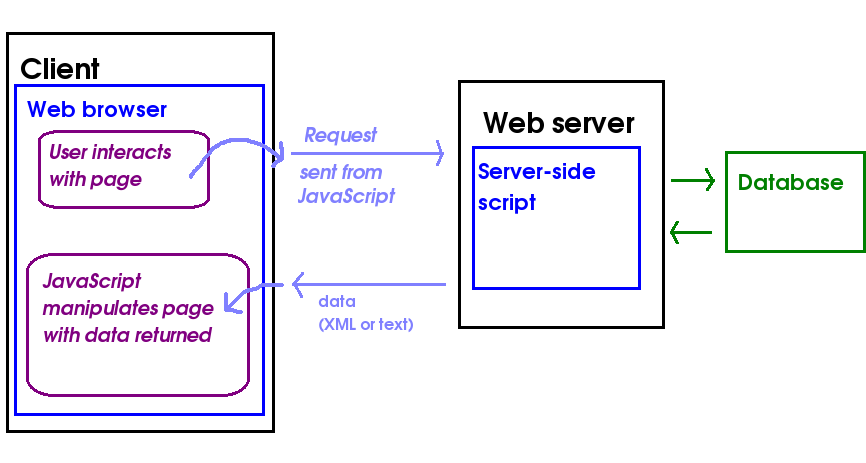
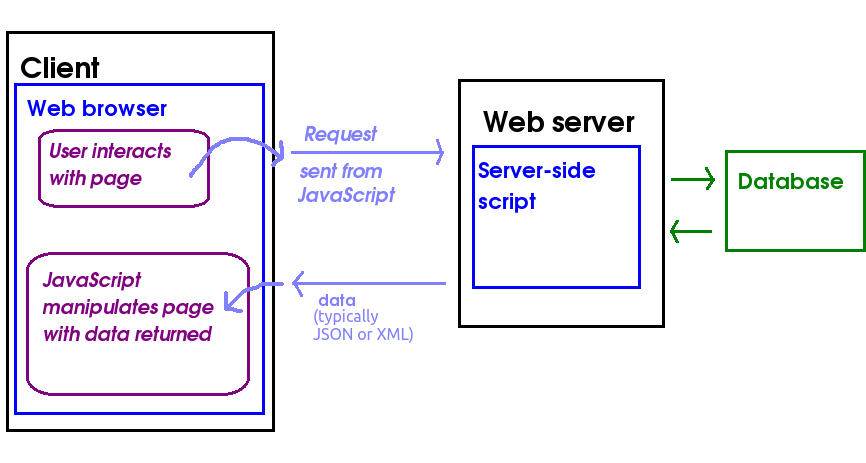
COM518: add preview of topic 5 notes

diff --git a/COM518/topic5.html b/COM518/topic5.html
@@ -1,0 +1,311 @@
+<!DOCTYPE html>
+
+<html xmlns="http://www.w3.org/1999/xhtml">
+<head>
+<title>Topic 5: Introduction to AJAX</title>
+<link rel='stylesheet' type='text/css' href='../css/dfti0910.css' />
+</head>
+<body>
+<div class="titlebox"><h1>Topic 5: Introduction to AJAX</h1></div>
+<p>Today we will cover the following topics:</p>
+<ul>
+<li>AJAX</li>
+<li>Introduction to Promises and async/await</li>
+<li>Using JSON in AJAX applications</li>
+</ul>
+<h2>Introduction to AJAX</h2>
+
+<p><img src="../images/ajax2.png" alt="AJAX applications"/></p>
+<p><em>AJAX</em> (<em>A</em>synchronous <em>J</em>avaScript <em>A</em>nd <em>X</em>ML) is an approach to developing highly interactive web applications in which the front-end (JavaScript running client-side in the browser) communicates with a web server <strong>in the background, without the page being reloaded.</strong> So, with AJAX we can create interactive, instant searches (such as that seen on Google) for example. Your client-side JavaScript code sends a request, and the server sends data back, typically in a pure-data format such as XML or JSON (even though AJAX stands for Asynchronous JavaScript and <em>XML</em>, JSON can also be used). The JSON or XML is then <em>parsed</em> (interpreted) by a second client-side JavaScript function, and the page dynamically updated with the new data.</p>
+<p>For example, we could have an AJAX application to search for all products of a given type (e.g cornflakes). Our client-side, front-end JavaScript could send a product type, such as "Cornflakes", to a Node server, and the Node server could send back JSON containing all the cornflakes manufactured by different manufacturers. Then, a second JavaScript function (the AJAX <em>callback</em>), could receive the JSON from the server, parse (interpret it) and update the HTML front-end with the data provided in the JSON (all brands of cornflakes available).</p>
+<p>
+How might a user interact with an AJAX application? They might enter a search term in a form and click Go, and then the search results would be sent back from the server as JSON in the background, and <em>one small part of the page only</em> (as opposed to the entire page) updated with the search results. 
+Furthermore,as  requests to the server are sent, and responses received, <em>in the background</em>.  so the user can <em>continue to interact with the page</em> while waiting for the response to come back.</p>
+
+<p>
+AJAX is not an actual language, but a combination of technologies used to produce the effect above. An AJAX application typically consists of three components:
+<ul>
+<li>
+the client side application, usually JavaScript running in the browser which sends HTTP requests to a server and processes the response;</li>
+<li>
+a web server which receives the HTTP request sent from the JavaScript, above, and delivers the response;</li>
+<li>
+the data sent back from the server to the client, which is typically in a data description format such as JSON or XML.
+</li>
+</ul>
+</p>
+
+<h3 id='cors'>The same-origin policy</h3>
+
+<p>AJAX applications are normally subject to the <em>same-origin policy</em>. This means that the back-end (the server-side script that the JavaScript talks to) must be delivered from the same exact domain as the front-end. The reason for this is security: the ability for an AJAX front end to talk to a third-party server opens up the possibility of cross-site scripting.  According to the W3C on their <a href='http://www.w3.org/Security/wiki/Same_Origin_Policy'>
+same origin policy document</a>, with the same-origin policy "the overarching intent is to let users visit untrusted web sites without those web sites interfering with the user's session with honest web sites" - in other words, it prevents the possibility of a third-party AJAX-based site using AJAX to communicate with a legitimate site which the user might be currently
+logged on to, which could lead to stealing of session-specific information.</p>
+<p>
+The domain must be exact; subdomains of a top-level domain are treated as different.  For example <em>booking.solentholidays.com</em> and
+<em>hotels.solentholidays.com</em> are treated as different. This is because several users with different subdomains might be sharing the same top-level domain of a hosting company, e.g.  <em>fredsmith.solenthosting.com</em> and <em>timjones.solenthosting.com</em>.</p>
+
+<h3>Circumventing the same-origin policy with CORS</h3>
+<p>There is, however, a way in which server-side developers can circumvent the same origin policy in certain cases. This is done by explicitly allowing, on the server side, certain AJAX clients to connect.  A common case is where one person owns two domains, and would like the two domains to communicate with each other over AJAX. For example, Solent Holidays might have two domains, <em>hotels.solentholidays.com</em> and <em>booking.solentholidays.com</em> - and wishes to be able to send users' booking details from <em>booking.solentholidays.com</em> to a hotels web service on <em>hotels.solentholidays.com</em>. To do this, they would have to add code to the server-side scripts on <em>hotels.solentholidays.com</em> to <em>allow booking.solentholidays.com to connect</em>.
+</p>
+
+<p>This is done by using the technique of <em>Cross-Origin Resource Sharing (CORS)</em>.  An <em>Access-Control-Allow-Origin</em> headere is added to the HTTP response from the server the <em>header()</em> function, e.g. an HTTP response
+might contain the header:
+<pre>Access-Control-Allow-Origin: booking.solentholidays.com</pre>
+which would allow the client at <em>booking.solentholidays.com</em> to connect
+to the script.
+</p>
+<p>To add a CORS header to a Node/Express server, it's easy if you install the <code>cors</code> package:
+<pre>npm install cors</pre>
+You just use:
+<pre>const cors = require('cors');
+app.use(cors());</pre>
+</p>
+
+<h2>New style AJAX requests with the fetch API</h2>
+<p>The easiest way to communicate with a server using AJAX is the
+<em>fetch API</em>. Here is an example of the use of the fetch API. Note
+that <strong>even though the server would normally send back a data format such as JSON or XML, in this example the server is simply sending back plain text, for simplicity</strong>.
+<pre>
+function ajaxSearch(productType) {
+    fetch(`https://server/api/product/${productType}`)
+        .then(response =&gt; response.text())
+        .then(text =&gt; {
+            document.getElementById('results').innerHTML = text;
+        });
+}
+
+// Make the AJAX run when we click a button
+document.getElementById('ajaxButton').addEventListener('click', ()=&gt; {
+    // Read the product type from a text field
+    const product = document.getElementById('productType').value;
+    ajaxSearch(product);
+});
+</pre>
+How is this working?
+<ul>
+<li>We fetch a response from the given URL. Here we are contacting a 
+server-side script which searches for all products of a given type.</li>
+<li><em>then</em>, when we get the response, we obtain the text from it.</li>
+<li><em>then</em>, when we have the raw text of the response, we run an 
+arrow function to place the results inside a &lt;div&gt;. This arrow
+function is passed the raw text of the response as a parameter.</li> 
+</ul>
+<h3>Promises</h3>
+<p>We'll now look in a bit more detail at what is going on with our fetch API
+request, and in particular look at the concept of a <em>promise</em>. The
+<code>fetch</code> call, above, returns a <em>Promise</em> object.
+A promise is an object which "promises" to do a particular (typically)
+asynchronous, background task which will complete at some point in the future,
+such as an AJAX request. The <code>fetch()</code> function will return 
+immediately, but will not do the AJAX request immediately. Instead, it returns
+a <em>promise object</em> which will, at some point in the future, be either
+<em>fulfilled</em> or <em>rejected</em>. These outcomes are as follows;
+    <ul>
+    <li>A promise is <em>fulfilled</em> or <em>resolved</em> as soon as the 
+    background task completes successfully, for example when a response is
+    received from an AJAX call;</li>
+    <li>or it is <em>rejected</em> if it fails with an error, for example
+    there is a network timeout on an AJAX call.</li>
+    </ul>
+We handle each of those two outcomes using the <code>then()</code> and
+<code>catch()</code> functions. The function supplied as an argument to
+<code>then</code> (the <strong>resolve</strong> function)
+will run <strong>as soon as the promise is fulfilled</strong>
+while the function supplied as an argument to <code>catch</code> will run 
+<strong>as soon as the promise is rejected</strong>.
+</p>
+<p>
+So, promises allow you to write code with intuitive, clean syntax in
+this form:
+<pre>promise.then(resolveFunction).catch(rejectFunction);</pre>
+where "promise" is the promise object, and <code>resolveFunction</code> and
+<code>rejectFunction</code> are the functions which run on fulfilment and
+rejection, respectively.</p>
+<p>Note that this topic does not include how to write your own promises from
+scratch, only how to use promises returned from APIs written by others, for
+example the fetch API. You can read about how to create your own promises in
+the <a href='../wad/promises.html'>third-year notes on promises</a>.</p> 
+<h4>Relating promises to the fetch API</h4>
+<p>So, returning to our fetch API example, what is happening with this code in
+terms of promises? (Note, I have now added a <code>catch()</code>).
+<pre>
+fetch(`https://server/api/product/${productType}`)
+    .then(response =&gt; response.text())
+    .then(text =&gt; {
+        document.getElementById('results').innerHTML = text;
+    })
+    .catch(e =&gt; { alert(`An error occurred: ${e}`); } );
+</pre>
+<ul>
+<li>We make our <code>fetch()</code> request. This returns a promise, which
+will resolve when we get a response back from the server.</li>
+<li>We supply the arrow function <code>response =&gt; response.text()</code>
+as the resolve function. This takes the response and obtains text from it.
+Note that this is shorthand for:
+<code>.then(response =&gt; { return response.text(); } );</code>
+in other words, if an arrow function only returns a value and does not do
+anything else, we can omit the curly brackets and the <code>return</code>.
+</li>
+<li>Note that <code>response.text()</code> does not return the text directly. Perhaps surprisingly, <code>response.text()</code> <strong>itself returns a promise</strong>, which will fulfil as soon as text is obtained from the response so we need <strong>yet another then()</strong> with a <strong>second resolve function</strong> passed as an argument, i.e:
+<pre>
+.then(text =&gt; {
+    document.getElementById('results').innerHTML = text;
+});
+</pre>
+This second resolve function gets passed the text as a parameter, and
+simply places this text inside a &lt;div&gt;.</li>
+<li>Finally, any errors that might occur during the whole process are handled
+with the <code>catch()</code>.</li>
+</ul>
+<h3>async/await</h3>
+<p>ECMAScript 8 (aka ECMAScript 2017) introduces <em>async/await</em>.
+This allows you to write promise-based,
+asynchronous code in a sequential manner. Here is how we would rewrite our
+<em>fetch</em> API code using async/await:
+<pre>
+<em>async</em> function ajaxSearch(productType) {
+    const response = <em>await</em> fetch(`https://server/api/product/${productType}`);
+    const text = <em>await</em> response.text();
+    document.getElementById('results').innerHTML = text;
+}
+
+// Make the AJAX run when we click a button
+document.getElementById('ajaxButton').addEventListener('click', ()=&gt; {
+    // Read the product type from a text field
+    const product = document.getElementById('productType').value;
+    ajaxSearch(product);
+});
+</pre>
+Note how we're doing a whole AJAX / JSON parsing procedure using sequential
+code, even though AJAX is an asynchronous process. The key things are:
+    <ul>
+    <li>The function <em>ajaxSearch()</em> is declared as <em>async</em>, 
+    which makes it a special kind of function (an <em>AsyncFunction</em>)
+    allowing us to do async/await;</li>
+    <li><em>fetch()</em> (which if you remember returns a promise to do an
+    AJAX call) is preceded by <em>await</em>. What <em>await()</em> does is
+    suspend execution of the rest of the <em>async</em> function until the
+    promise concerned has been fulfilled. 
+    The argument to the resolve function of
+    the promise is then <em>returned</em> from the <em>await</em> call.
+    </li>
+    </ul>
+Note also that <em>await</em> will only work with a promise. It's
+<em>awaiting the successful resolution of that promise</em>. Trying to use
+<em>await</em> without a Promise will not work!</li>
+</p>
+<p>To make the code more robust we need to handle errors. Here is how to
+do this with <em>async/await</em>:
+<pre>
+<em>async</em> function ajaxSearch(productType) {
+    try {
+        const response = <em>await</em> fetch(`https://server/api/product/${productType}`);
+        const text = <em>await</em> response.text();
+        document.getElementById('results').innerHTML = text;
+    } catch(e) {
+        alert(`Error: ${e}`);
+    }
+}
+
+// Make the AJAX run when we click a button
+document.getElementById('ajaxButton').addEventListener('click', ()=&gt; {
+    // Read the product type from a text field
+    const product = document.getElementById('productType').value;
+    ajaxSearch(product);
+});
+</pre>
+Note how we <em>try</em> to do the promise based, asynchronous code and
+<em>catch</em> any promise rejections in the <em>catch</em> block. The catch
+block gets passed the error message accompanying the promise rejection.</p>
+<h4>async/await with JSON</h4>
+<p>The previous examples have shown <em>fetch()</em> AJAX requests which return
+plain text. Here is a version which communicates with a server which returns
+JSON instead:
+<pre>
+<em>async</em> function ajaxSearch(productType) {
+    // Send a request to our remote URL
+    const response = <em>await</em> fetch(`https://server/api/product/${productType}`);
+
+    // Parse the JSON.
+    const products = <em>await</em> response.json();
+
+    // Loop through the array of JSON objects and add the results to a &lt;div&gt;
+    let html = "";
+    products.forEach ( product =&gt; {
+        html += `Product Name: ${product.name} Manufacturer: ${product.manufacturer} Price: ${product.price}&lt;br /&gt;`;
+    });
+    document.getElementById('results').innerHTML = html;
+}
+
+// Make the AJAX run when we click a button
+document.getElementById('ajaxButton').addEventListener('click', ()=&gt; {
+    // Read the product type from a text field
+    const product = document.getElementById('productType').value;
+    ajaxSearch(product);
+});
+</pre>
+This code is very similar to the text-based example. The main difference is
+we use <code>response.json()</code> rather than <code>response.text()</code>.
+This returns a promise which resolves when the JSON in the response has
+been parsed (compare <code>response.text()</code>, which returns a promise
+which resolves when we have extracted text from the response).</p>
+<p>The other diference is that we need to loop through our array of JSON
+objects returned from the server. The JSON might look like this:
+<pre>
+[
+    {
+        "name":"Cornflakes",
+        "manufacturer":"Organic Products Ltd.",
+        "price": 2.49 
+    },
+    {
+        "name":"Cornflakes",
+        "manufacturer":"Cockadoodle Cereal Co.",
+        "price": 1.79 
+    },
+    {
+        "name":"Cornflakes",
+        "manufacturer":"Smith Emporium",
+        "price": 0.79 
+    },
+]
+</pre>
+so hopefully you can see how we loop through each product object within the JSON
+and extract the name, manufacturer and price fields from it. Notice also how
+<code>forEach()</code> allows us to loop through each member of an array
+without needing a <code>for</code> loop with an index. 
+<code>forEach()</code> is a function which performs a second function on each member of an array. Each member of the array in turn is passed into this second function as a parameter.</p>
+<h2>Exercises</h2>
+<p><strong>IMPORTANT!</strong> If you are reading this <em>before</em> the scheduled delivery date for this topic of week 5, these exercises <strong>MAY NOT BE COMPLETE</strong>.</p>
+<p>Your aim is to develop <em>HitTastic!</em>, a website allowing users to
+search for, and buy, music. You are going to develop a front-end for 
+HitTastic! and connect it to your Node server that you wrote last week.</p>
+<ol>
+<li>Develop an HTML front end for HitTastic!, a site which allows you to search for, and buy, music online. If you are doing this in advance of the session, feel free to use a bit of creativity here and create an appealing front-end (though this is not compulsory!) Ensure that your HitTastic! page 
+includes a form field to allow the user to enter an artist, and a button, which
+when clicked, will connect, via AJAX, to your server. 
+</li>
+<li>In a separate JavaScript file on the front-end, write an AJAX request function which connects to your <code>/artist</code> API endpoint from topic 4. You 
+should <em>parse</em> the JSON returned.  Place the results within a &lt;div&gt;. Remember that you can use <em>innerHTML</em>
+to fill a page element, e.g:
+<pre>document.getElementById("div1").innerHTML = "New content!";</pre></li>
+<li>Display the results in a table.</li>
+<li>Add an additional column to the table. If the song was released before the
+year 2000 (you can tell this from the <code>year</code> property in the JSON, based on the <code>year</code> column in the database) then display "CLASSIC HIT!" in this column.</li>
+<li>Add an additional <code>&lt;select&gt;</code> box to the front-end. This should
+contain the options Title, Artist or Year, allowing the user to search on
+either title, artist or year.
+<pre>
+&lt;select id='searchType'&gt;
+&lt;option&gt;title&lt;/option&gt;
+&lt;option&gt;artist&lt;/option&gt;
+&lt;option&gt;year&lt;/option&gt;
+&lt;/select&gt;
+</pre>
+Next to this <code>&lt;select&gt;</code>, add a button labelled "Search by Type" and connect this to a new JavaScript function. This should read the search type
+from the select box (you can just use <code>document.getElementById(....).value</code> here, the same as for input boxes) and then make a request to the
+appropriate API endpoint. You will need to add a new endpoint to your REST API
+to find all songs released in a given year, as you will not have done this last week.</li>
+</ol>
+</body>
+</html>

diff --git a/COM518/index.html b/COM518/index.html
@@ -6,5 +6,6 @@
 <li><a href='topic2.html'>Further JavaScript: Arrow Functions, Objects and Classes</a></li>
 <li><a href='topic3.html'>Introduction to Node.js; Clients and Servers</a></li>
 <li><a href='topic4.html'>Node.js and databases</a></li>
+<li><a href='topic5.html'>Introduction to AJAX</a></li>
 </ol>
 </body></html>
